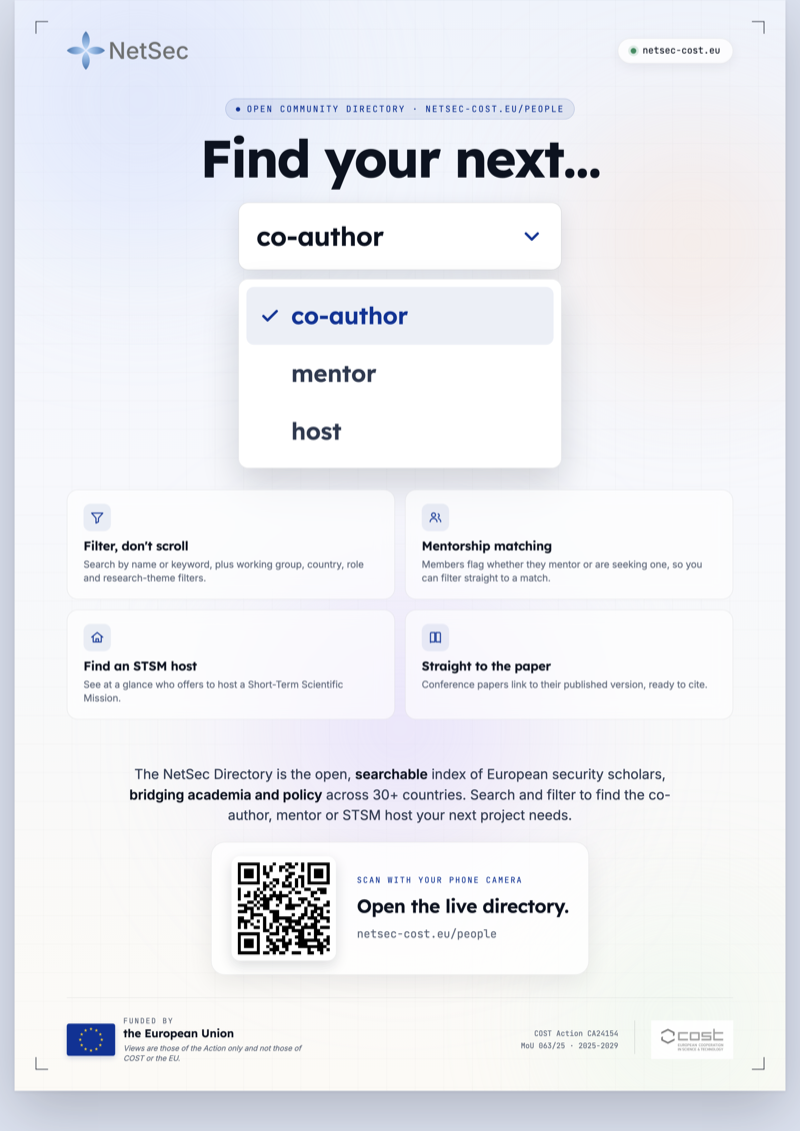
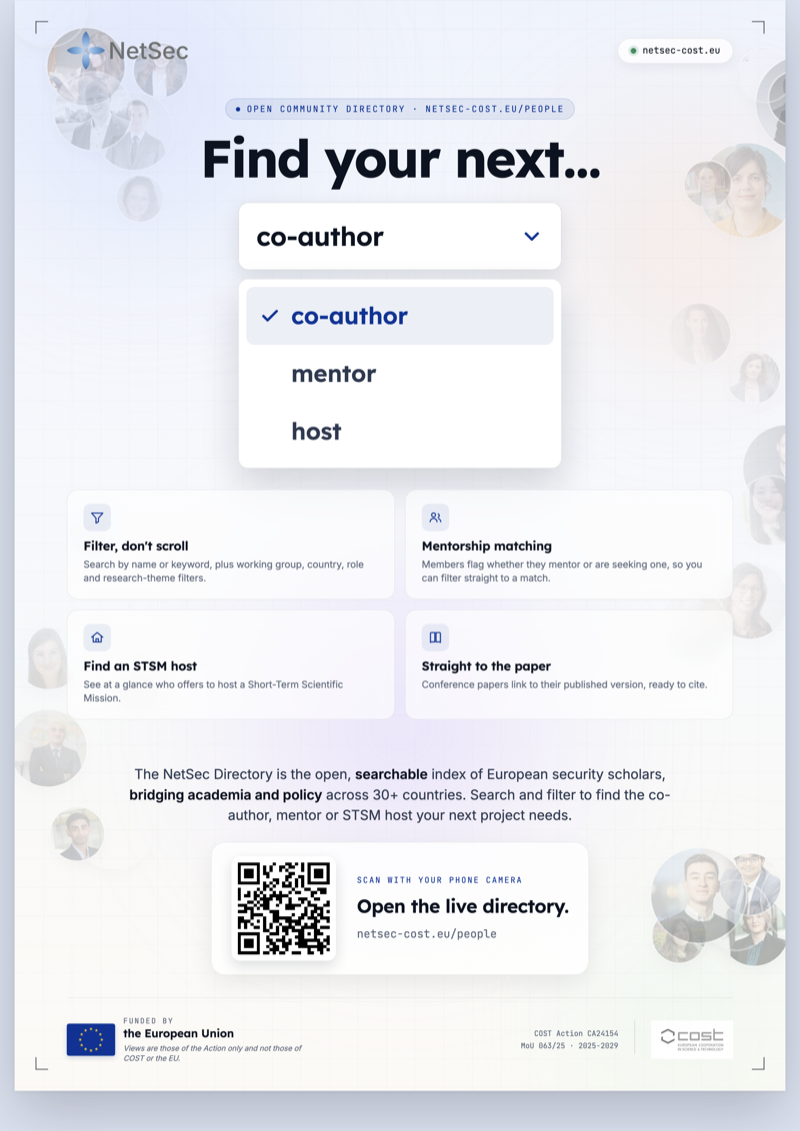
feat: directory headshot wallpaper + floating faces on the search poster (#1119)
* feat(promo): NetSec Directory headshot wallpaper

A 2560×1440 desktop wallpaper composed from the directory members'
submitted headshots: the NetSec lockup and "The NetSec Directory"
title over the brand aurora, then every submitted headshot as a
circular avatar, with netsec-cost.eu/people at the foot.

Source at docs/promo/wallpaper-directory.html regenerates from
data/bios.json, so it stays current as members add photos. Only
members with a headshot on file appear.

* feat(press-kit): float member headshots behind the directory-search poster

The directory-search poster now carries a soft frame of member
headshots in its background: circular heads drift down the left and
right margins and corners, faded toward the centre with a radial mask
so the title, role selector, capability tiles, and QR stay fully
legible. It puts real faces on the otherwise abstract directory.

Heads are referenced from data/bios.json's photo set by root-relative
path, so the set tracks the directory. Print PNG and small PNG/WebP
previews re-rendered.

---------

diff --git a/docs/promo/wallpaper-directory.html b/docs/promo/wallpaper-directory.html
@@ -1,0 +1,70 @@
+<!doctype html><html lang="en"><head><meta charset="utf-8">
+<link href="https://fonts.googleapis.com/css2?family=Lexend:wght@400;500;600;700&family=Inter:wght@400;500;600&family=JetBrains+Mono:wght@500&display=swap" rel="stylesheet">
+<style>
+:root{--accent:#003399;--accent-2:#0a84ff;--ink:#0b1220;--ink-2:#2b3850;--muted:#5a6679;--line:rgba(11,18,32,.10)}
+*{box-sizing:border-box;margin:0;padding:0}
+html,body{width:2560px;height:1440px}
+body{font-family:'Inter',sans-serif;color:var(--ink-2);background:linear-gradient(160deg,#eef3fc 0%,#f6f8fc 46%,#fcfaf5 100%);position:relative;overflow:hidden}
+.blob{position:absolute;border-radius:50%;filter:blur(120px);opacity:.55;mix-blend-mode:multiply}
+.b1{width:1200px;height:1200px;left:-260px;top:-360px;background:radial-gradient(circle,#c4d4ff 0%,rgba(196,212,255,0) 64%)}
+.b2{width:1000px;height:1000px;right:-220px;top:80px;background:radial-gradient(circle,#ffd9c2 0%,rgba(255,217,194,0) 62%)}
+.b3{width:1300px;height:1300px;left:50%;bottom:-540px;transform:translateX(-50%);background:radial-gradient(circle,#d8c9ff 0%,rgba(216,201,255,0) 62%)}
+.grid-bg{position:absolute;inset:0;opacity:.5;background-image:linear-gradient(to right,rgba(11,18,32,.04) 1px,transparent 1px),linear-gradient(to bottom,rgba(11,18,32,.04) 1px,transparent 1px);background-size:64px 64px;-webkit-mask-image:radial-gradient(130% 120% at 50% 42%,#000 55%,transparent 100%)}
+.frame{position:relative;z-index:2;height:100%;display:flex;flex-direction:column;align-items:center;justify-content:center;padding:80px 120px}
+.head{display:flex;flex-direction:column;align-items:center;text-align:center;margin-bottom:50px}
+.head img{height:74px;margin-bottom:26px}
+.head h1{font-family:'Lexend';font-weight:600;font-size:60px;letter-spacing:-.02em;color:var(--ink)}
+.head h1 .g{background:linear-gradient(118deg,#003399,#0a84ff);-webkit-background-clip:text;background-clip:text;color:transparent}
+.head p{font-family:'JetBrains Mono';font-size:22px;letter-spacing:.14em;text-transform:uppercase;color:var(--muted);margin-top:16px}
+.grid{display:flex;flex-wrap:wrap;justify-content:center;align-content:center;gap:28px;max-width:2240px}
+.av{width:220px;height:220px;border-radius:50%;overflow:hidden;background:#dde6f5;box-shadow:0 16px 40px rgba(11,18,32,.16),0 0 0 5px #fff,0 0 0 6px var(--line)}
+.av img{width:100%;height:100%;object-fit:cover;display:block}
+.foot{margin-top:52px;display:flex;align-items:center;gap:16px;font-family:'JetBrains Mono';font-size:25px;color:var(--ink)}
+.foot .dot{width:11px;height:11px;border-radius:50%;background:#1f8a5b;box-shadow:0 0 0 5px rgba(31,138,91,.16)}
+</style></head><body>
+<div class="blob b1"></div><div class="blob b2"></div><div class="blob b3"></div>
+<div class="grid-bg"></div>
+<div class="frame">
+  <div class="head">
+    <img src="/assets/images/brand/netsec-lockup-primary.png" alt="NetSec">
+    <h1>The NetSec <span class="g">Directory</span></h1>
+    <p>Networking European security knowledge</p>
+  </div>
+  <div class="grid">
+    <div class="av"><img src="/assets/images/people/moritz-weiss.webp" alt="Dr Moritz Weiss" title="Dr Moritz Weiss"></div>
+    <div class="av"><img src="/assets/images/people/marie-robin.webp" alt="Dr Marie Robin" title="Dr Marie Robin"></div>
+    <div class="av"><img src="/assets/images/people/eugenio-sanchez.webp" alt="Mr Eugenio Sánchez" title="Mr Eugenio Sánchez"></div>
+    <div class="av"><img src="/assets/images/people/eliza-gheorghe.webp" alt="Dr Eliza Gheorghe" title="Dr Eliza Gheorghe"></div>
+    <div class="av"><img src="/assets/images/people/chiara-libiseller.webp" alt="Dr Chiara Libiseller" title="Dr Chiara Libiseller"></div>
+    <div class="av"><img src="/assets/images/people/john-helferich.webp" alt="Dr John N.T. Helferich" title="Dr John N.T. Helferich"></div>
+    <div class="av"><img src="/assets/images/people/chiara-ruffa.webp" alt="Dr Chiara Ruffa" title="Dr Chiara Ruffa"></div>
+    <div class="av"><img src="/assets/images/people/revecca-pedi.webp" alt="Dr Revecca Pedi" title="Dr Revecca Pedi"></div>
+    <div class="av"><img src="/assets/images/people/filip-ejdus.webp" alt="Prof. Filip Ejdus" title="Prof. Filip Ejdus"></div>
+    <div class="av"><img src="/assets/images/people/alisa-kerschbaum.webp" alt="Ms Alisa Kerschbaum" title="Ms Alisa Kerschbaum"></div>
+    <div class="av"><img src="/assets/images/people/silvia-damato.webp" alt="Dr Silvia D'Amato" title="Dr Silvia D'Amato"></div>
+    <div class="av"><img src="/assets/images/people/sarka-kolmasova.webp" alt="Dr Šárka Kolmašová" title="Dr Šárka Kolmašová"></div>
+    <div class="av"><img src="/assets/images/people/arthur-laudrain.webp" alt="Dr Arthur Laudrain" title="Dr Arthur Laudrain"></div>
+    <div class="av"><img src="/assets/images/people/meret-steybe.webp" alt="Ms Meret Steybe" title="Ms Meret Steybe"></div>
+    <div class="av"><img src="/assets/images/people/anna-pagnacco.webp" alt="Anna Pagnacco" title="Anna Pagnacco"></div>
+    <div class="av"><img src="/assets/images/people/rusudan-zabakhidze.webp" alt="Ms Rusudan Zabakhidze" title="Ms Rusudan Zabakhidze"></div>
+    <div class="av"><img src="/assets/images/people/lucian-bumeder.webp" alt="Lucian Bumeder" title="Lucian Bumeder"></div>
+    <div class="av"><img src="/assets/images/people/pieter-zhao.webp" alt="Mr Pieter Zhao" title="Mr Pieter Zhao"></div>
+    <div class="av"><img src="/assets/images/people/saurav-narain.webp" alt="Mr Saurav Narain" title="Mr Saurav Narain"></div>
+    <div class="av"><img src="/assets/images/people/archishman-goswami.webp" alt="Mr Archishman Goswami" title="Mr Archishman Goswami"></div>
+    <div class="av"><img src="/assets/images/people/mattia-sguazzini.webp" alt="Dr Mattia Sguazzini" title="Dr Mattia Sguazzini"></div>
+    <div class="av"><img src="/assets/images/people/francesco-canossi.webp" alt="Mr Francesco Canossi" title="Mr Francesco Canossi"></div>
+    <div class="av"><img src="/assets/images/people/gil-baram.webp" alt="Dr Gil Baram" title="Dr Gil Baram"></div>
+    <div class="av"><img src="/assets/images/people/sara-russo.webp" alt="Ms Sara Russo" title="Ms Sara Russo"></div>
+    <div class="av"><img src="/assets/images/people/yanina-shved-dogrul.webp" alt="Ms Yanina Shved-Dogrul" title="Ms Yanina Shved-Dogrul"></div>
+    <div class="av"><img src="/assets/images/people/seyithan-ahmet-ates.webp" alt="Prof. Seyithan Ahmet Ates" title="Prof. Seyithan Ahmet Ates"></div>
+    <div class="av"><img src="/assets/images/people/wendy-he.webp" alt="Dr Wendy He" title="Dr Wendy He"></div>
+    <div class="av"><img src="/assets/images/people/laura-lisboa.webp" alt="Ms Laura Lisboa" title="Ms Laura Lisboa"></div>
+    <div class="av"><img src="/assets/images/people/nikolaos-tzifakis.webp" alt="Prof. Nikolaos Tzifakis" title="Prof. Nikolaos Tzifakis"></div>
+    <div class="av"><img src="/assets/images/people/mark-rhinard.webp" alt="Prof. Mark Rhinard" title="Prof. Mark Rhinard"></div>
+    <div class="av"><img src="/assets/images/people/linde-desmaele.webp" alt="Dr Linde Desmaele" title="Dr Linde Desmaele"></div>
+    <div class="av"><img src="/assets/images/people/alexander-lanoszka.webp" alt="Dr Alexander Lanoszka" title="Dr Alexander Lanoszka"></div>
+    <div class="av"><img src="/assets/images/people/julia-carver.webp" alt="Dr Julia Carver" title="Dr Julia Carver"></div>
+  </div>
+  <div class="foot"><span class="dot"></span>netsec-cost.eu/people</div>
+</div>
+</body></html>

diff --git a/docs/promo/poster-find-your-next.html b/docs/promo/poster-find-your-next.html
@@ -140,6 +140,14 @@ h1.title .l{display:block}
 .qr-band .qr-side .qr-lab{font-family:var(--mono);font-size:13px;text-transform:uppercase;letter-spacing:.16em;color:var(--accent);margin-bottom:9px}
 .qr-band .qr-side .qr-h{font-family:var(--serif);font-weight:600;font-size:30px;letter-spacing:-.015em;color:var(--ink);margin-bottom:8px}
 .qr-band .qr-side .qr-u{font-family:var(--mono);font-size:18px;color:var(--muted)}
+
+  /* Floating member heads framing the content (left/right gutters), softly masked */
+  .faces{position:absolute;inset:0;z-index:1;overflow:hidden;pointer-events:none;
+    -webkit-mask-image:radial-gradient(122% 100% at 50% 44%, transparent 30%, rgba(0,0,0,.6) 56%, #000 100%);
+            mask-image:radial-gradient(122% 100% at 50% 44%, transparent 30%, rgba(0,0,0,.6) 56%, #000 100%)}
+  .faces .fh{position:absolute;border-radius:50%;overflow:hidden;opacity:.5;
+    box-shadow:0 9px 24px rgba(11,18,32,.12),0 0 0 3px rgba(255,255,255,.82)}
+  .faces .fh img{width:100%;height:100%;object-fit:cover;display:block;filter:saturate(.94)}
 </style>
 </head>
 <body>
@@ -151,6 +159,38 @@ h1.title .l{display:block}
       <div class="blob b-warm"  style="width:620px;height:620px;right:-160px;top:80px"></div>
       <div class="blob b-violet" style="width:820px;height:820px;left:50%;top:760px;transform:translateX(-50%)"></div>
       <div class="blob b-mint"  style="width:520px;height:520px;right:-90px;bottom:-150px;opacity:.45"></div>
+    </div>
+    <div class="faces">
+      <div class="fh" style="left:53px;top:45px;width:124px;height:124px;transform:rotate(6deg)"><img src="/assets/images/people/revecca-pedi.webp" alt="" loading="eager"></div>
+      <div class="fh" style="left:88px;top:808px;width:86px;height:86px;transform:rotate(1deg)"><img src="/assets/images/people/sara-russo.webp" alt="" loading="eager"></div>
+      <div class="fh" style="left:-8px;top:1141px;width:124px;height:124px;transform:rotate(3deg)"><img src="/assets/images/people/seyithan-ahmet-ates.webp" alt="" loading="eager"></div>
+      <div class="fh" style="left:130px;top:149px;width:124px;height:124px;transform:rotate(4deg)"><img src="/assets/images/people/alexander-lanoszka.webp" alt="" loading="eager"></div>
+      <div class="fh" style="left:1120px;top:903px;width:124px;height:124px;transform:rotate(7deg)"><img src="/assets/images/people/chiara-libiseller.webp" alt="" loading="eager"></div>
+      <div class="fh" style="left:1145px;top:563px;width:86px;height:86px;transform:rotate(5deg)"><img src="/assets/images/people/silvia-damato.webp" alt="" loading="eager"></div>
+      <div class="fh" style="left:64px;top:117px;width:124px;height:124px;transform:rotate(-3deg)"><img src="/assets/images/people/john-helferich.webp" alt="" loading="eager"></div>
+      <div class="fh" style="left:1135px;top:1443px;width:110px;height:110px;transform:rotate(-3deg)"><img src="/assets/images/people/rusudan-zabakhidze.webp" alt="" loading="eager"></div>
+      <div class="fh" style="left:0px;top:998px;width:110px;height:110px;transform:rotate(-5deg)"><img src="/assets/images/people/linde-desmaele.webp" alt="" loading="eager"></div>
+      <div class="fh" style="left:1037px;top:951px;width:110px;height:110px;transform:rotate(-7deg)"><img src="/assets/images/people/moritz-weiss.webp" alt="" loading="eager"></div>
+      <div class="fh" style="left:1134px;top:1373px;width:98px;height:98px;transform:rotate(2deg)"><img src="/assets/images/people/archishman-goswami.webp" alt="" loading="eager"></div>
+      <div class="fh" style="left:1193px;top:90px;width:152px;height:152px;transform:rotate(-6deg)"><img src="/assets/images/people/filip-ejdus.webp" alt="" loading="eager"></div>
+      <div class="fh" style="left:1202px;top:1377px;width:138px;height:138px;transform:rotate(-6deg)"><img src="/assets/images/people/anna-pagnacco.webp" alt="" loading="eager"></div>
+      <div class="fh" style="left:98px;top:1275px;width:124px;height:124px;transform:rotate(3deg)"><img src="/assets/images/people/yanina-shved-dogrul.webp" alt="" loading="eager"></div>
+      <div class="fh" style="left:1105px;top:1417px;width:110px;height:110px;transform:rotate(7deg)"><img src="/assets/images/people/gil-baram.webp" alt="" loading="eager"></div>
+      <div class="fh" style="left:971px;top:895px;width:98px;height:98px;transform:rotate(-5deg)"><img src="/assets/images/people/mark-rhinard.webp" alt="" loading="eager"></div>
+      <div class="fh" style="left:192px;top:70px;width:86px;height:86px;transform:rotate(5deg)"><img src="/assets/images/people/meret-steybe.webp" alt="" loading="eager"></div>
+      <div class="fh" style="left:1026px;top:1462px;width:86px;height:86px;transform:rotate(-1deg)"><img src="/assets/images/people/laura-lisboa.webp" alt="" loading="eager"></div>
+      <div class="fh" style="left:1214px;top:115px;width:86px;height:86px;transform:rotate(0deg)"><img src="/assets/images/people/francesco-canossi.webp" alt="" loading="eager"></div>
+      <div class="fh" style="left:1102px;top:230px;width:152px;height:152px;transform:rotate(-1deg)"><img src="/assets/images/people/chiara-ruffa.webp" alt="" loading="eager"></div>
+      <div class="fh" style="left:1172px;top:684px;width:138px;height:138px;transform:rotate(7deg)"><img src="/assets/images/people/lucian-bumeder.webp" alt="" loading="eager"></div>
+      <div class="fh" style="left:1078px;top:259px;width:74px;height:74px;transform:rotate(-5deg)"><img src="/assets/images/people/nikolaos-tzifakis.webp" alt="" loading="eager"></div>
+      <div class="fh" style="left:58px;top:1298px;width:86px;height:86px;transform:rotate(-7deg)"><img src="/assets/images/people/saurav-narain.webp" alt="" loading="eager"></div>
+      <div class="fh" style="left:1053px;top:488px;width:98px;height:98px;transform:rotate(-7deg)"><img src="/assets/images/people/sarka-kolmasova.webp" alt="" loading="eager"></div>
+      <div class="fh" style="left:154px;top:1044px;width:98px;height:98px;transform:rotate(2deg)"><img src="/assets/images/people/eliza-gheorghe.webp" alt="" loading="eager"></div>
+      <div class="fh" style="left:1024px;top:1364px;width:152px;height:152px;transform:rotate(1deg)"><img src="/assets/images/people/pieter-zhao.webp" alt="" loading="eager"></div>
+      <div class="fh" style="left:1163px;top:767px;width:110px;height:110px;transform:rotate(-6deg)"><img src="/assets/images/people/wendy-he.webp" alt="" loading="eager"></div>
+      <div class="fh" style="left:1165px;top:77px;width:86px;height:86px;transform:rotate(-6deg)"><img src="/assets/images/people/eugenio-sanchez.webp" alt="" loading="eager"></div>
+      <div class="fh" style="left:165px;top:282px;width:74px;height:74px;transform:rotate(-2deg)"><img src="/assets/images/people/marie-robin.webp" alt="" loading="eager"></div>
+      <div class="fh" style="left:-8px;top:-50px;width:124px;height:124px;transform:rotate(-5deg)"><img src="/assets/images/people/julia-carver.webp" alt="" loading="eager"></div>
     </div>
     <span class="corner tl"></span><span class="corner tr"></span>
     <span class="corner bl"></span><span class="corner br"></span>

diff --git a/CHANGELOG.md b/CHANGELOG.md
@@ -123,7 +123,7 @@ maintainer-facing audience.
 ## [Unreleased]
 
 #### Added
-- A third press-kit poster, the directory-search poster (`docs/promo/poster-find-your-next.html`, A4 portrait), promotes what the Directory lets you do rather than recruiting bios. It reuses the "Find your next…" headline over the directory's role selector (co-author, mentor or host), four capability tiles (filter the directory, mentorship matching, find an STSM host, papers that link to their published version), and a QR code that opens the directory at `netsec-cost.eu/people`. The original "Add your bio" directory poster is unchanged. Listed on the press kit in all three locales with print-PNG and small-PNG downloads, hand-translated for FR and DE.
+- A third press-kit poster, the directory-search poster (`docs/promo/poster-find-your-next.html`, A4 portrait), promotes what the Directory lets you do rather than recruiting bios. It reuses the "Find your next…" headline over the directory's role selector (co-author, mentor or host), four capability tiles (filter the directory, mentorship matching, find an STSM host, papers that link to their published version), and a QR code that opens the directory at `netsec-cost.eu/people`. The original "Add your bio" directory poster is unchanged. Listed on the press kit in all three locales with print-PNG and small-PNG downloads, hand-translated for FR and DE. Its background carries a soft frame of member headshots, drifting down the margins to put real faces on the directory.
 - The News system gains a working archive and issue-driven publishing, bringing it to parity with the sister EISS site. The `/news` page (all three locales) now renders the full chronological list of items from `data/news.json` (each card deep-linkable at `#news-<id>`), where it was a static "archive is empty" placeholder; the home-page "Latest News" block now caps at four items and decays anything older than 18 months, so older items live on in the archive and the RSS feed. Labelling a GitHub issue `news` now publishes it: a workflow reads the issue (with optional `Type:`/`URL:`/`Date:` headers), prepends the item to `data/news.json`, regenerates the feed, and opens an auto-merging PR that closes the issue. Documented in `docs/news-publishing.md`.
 - The Training School page (`/summer-school.html`, all three locales) is rebuilt around editions rather than a single year. It now carries the COST-compliant name "NetSec Training School" (with the Early-Career Scholars Summer School / ECS³ as the subtitle), a forward-looking "next edition" module, and a "past editions" archive, both driven by a new `data/training-school.json` through a light renderer. The next-edition module shows the 2027 edition as "to be announced" with no calendar yet; when an edition is announced with a date, an Add-to-calendar affordance appears on its own. The 2026 archive entry carries the cohort, coordinators, topics, and a photo gallery from the Stockholm edition. The page links directly to EISS's Euro-SWAMOS page, Julia Carver (a Working Group participant) joins the directory so her faculty headshot resolves, and Nicolas Blarel's faculty card now carries his photo. Hand-translated for FR and DE.
 - An "In pictures" photo gallery on the archived ESSC 2026 page (all three locales), between the recap reel and the programme, so the past-conference page reads as a livelier record. The four photos are responsive and lazy-loaded. Training School signposting also improved across the site: a cross-link from the Grants page (the early-career audiences overlap), and the home news card and the visual sitemap now use the "Training School" name. Hand-translated for FR and DE.
